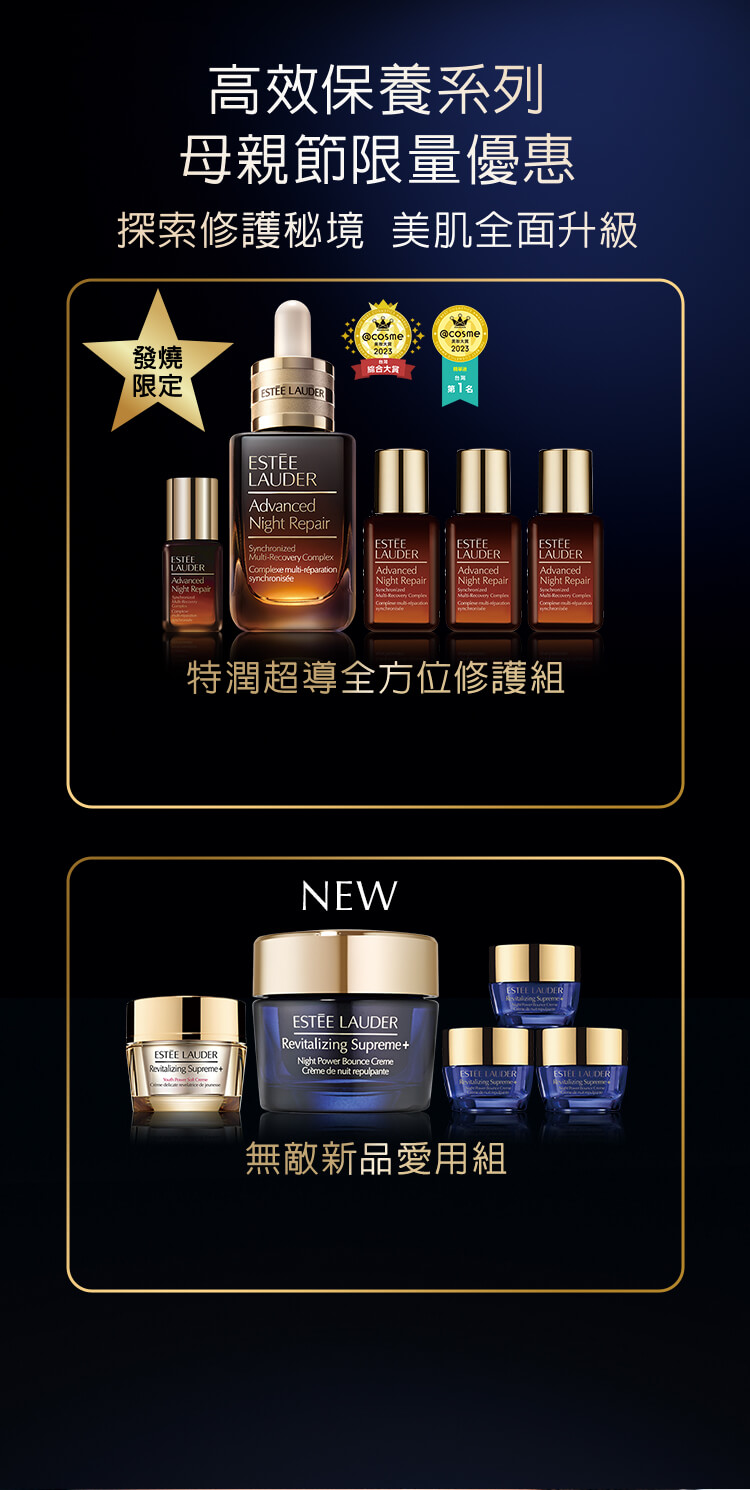
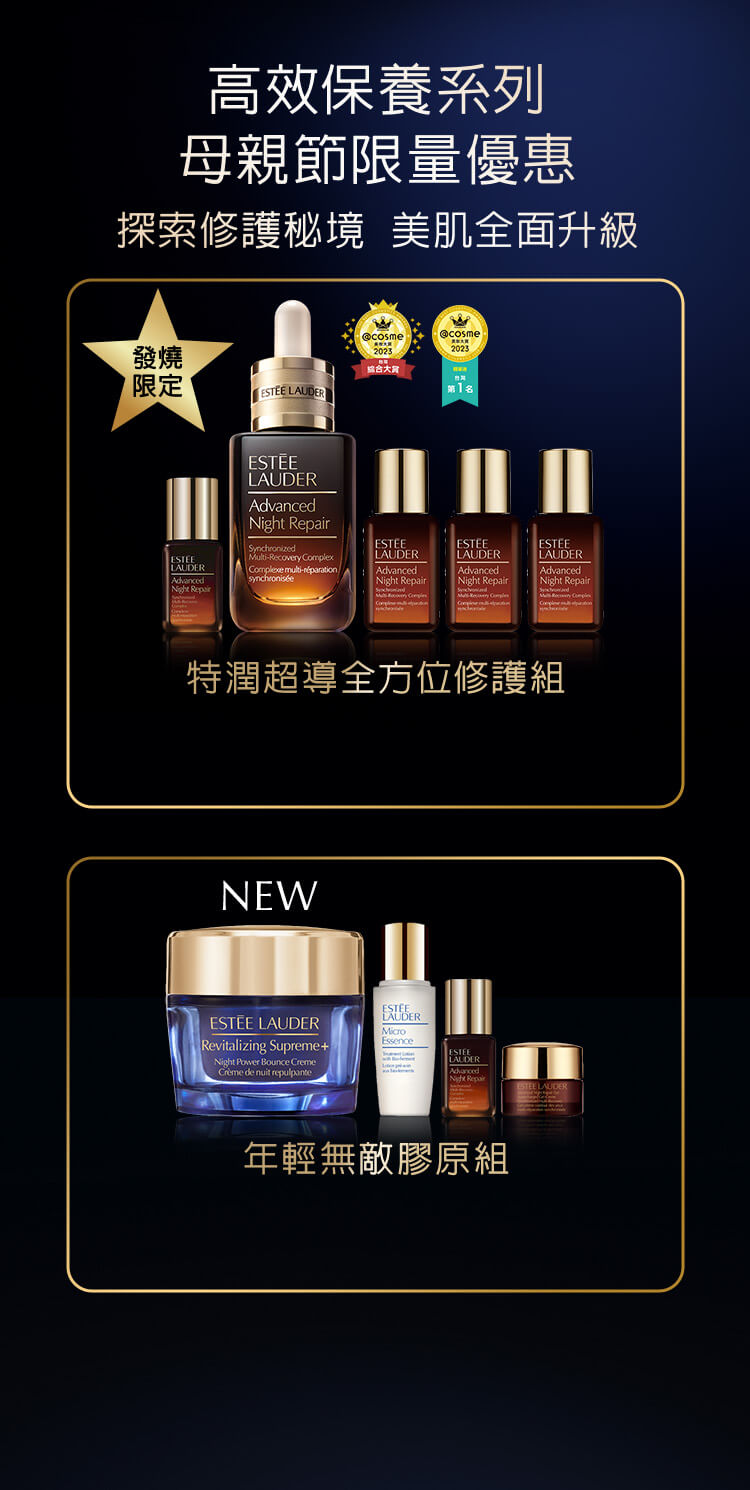
Update home page with new buttons and adjust button widths

Changed region(s): [[0.1533, 0.5866, 0.8587, 0.8027], [0.46, 0.1852, 0.552, 0.247], [0.5827, 0.2161, 0.644, 0.247]]

diff --git a/src/pages/home/index.tsx b/src/pages/home/index.tsx
@@ -516,18 +516,34 @@ const Home = memo(() => {
                 </div>
                 <div className='b0'>
                   <a
+                    href='https://line.esteelauder.com.tw/OnlineShop/preorder?utm_medium=referral&utm_source=online&utm_campaign=product_engagement&utm_content=brand-supreme-mpp_2403&utm_term=brand'
+                    target='_blank'
+                  >
+                    <button>線上點線下取</button>
+                  </a>
+                </div>
+                <div className='c0'>
+                  <a
                     href='https://www.esteelauder.com.tw/product/13777/128888/promotions/setsgifts/advanced-night-repair?utm_medium=referral&utm_source=online&utm_campaign=product_engagement&utm_content=brand-supreme-mpp_2403&utm_term=brand'
                     target='_blank'
                   >
-                    <button>立即購買</button>
+                    <button>官網直購</button>
                   </a>
                 </div>
                 <div className='b1'>
                   <a
+                    href='https://line.esteelauder.com.tw/OnlineShop/preorder?utm_medium=referral&utm_source=online&utm_campaign=product_engagement&utm_content=brand-supreme-mpp_2403&utm_term=brand'
+                    target='_blank'
+                  >
+                    <button>線上點線下取</button>
+                  </a>
+                </div>
+                <div className='c1'>
+                  <a
                     href='https://www.esteelauder.com.tw/setsgifts?utm_medium=referral&utm_source=online&utm_campaign=product_engagement&utm_content=brand-supreme-mpp_2403&utm_term=brand'
                     target='_blank'
                   >
-                    <button>立即購買</button>
+                    <button>官網直購</button>
                   </a>
                 </div>
                 <div className='f0'>母親節特惠組數量有限，售完為止。</div>

diff --git a/src/settings/section-7.less b/src/settings/section-7.less
@@ -95,11 +95,12 @@
     }
 
     .b0,
-    .b1 {
+    .b1,
+    .c0,
+    .c1 {
       @apply absolute;
 
       button {
-        width: 308px;
         height: 40px;
         background-color: #b5862b;
         color: #fff;
@@ -160,7 +161,27 @@
 
     .b0 {
       top: 82.2%;
-      left: 14.7%;
+      left: 10.7%;
+
+      button {
+        width: 228px;
+      }
+
+      @media only screen and (max-width: 1363px) {
+        & {
+          top: 51.8%;
+          left: 28.6%;
+        }
+      }
+    }
+
+    .c0 {
+      top: 82.2%;
+      left: 29.2%;
+
+      button {
+        width: 176px;
+      }
 
       @media only screen and (max-width: 1363px) {
         & {
@@ -172,7 +193,27 @@
 
     .b1 {
       top: 82.2%;
-      left: 62.2%;
+      left: 58.2%;
+
+      button {
+        width: 228px;
+      }
+
+      @media only screen and (max-width: 1363px) {
+        & {
+          top: 84.6%;
+          left: 28.6%;
+        }
+      }
+    }
+
+    .c1 {
+      top: 82.2%;
+      left: 76.7%;
+
+      button {
+        width: 176px;
+      }
 
       @media only screen and (max-width: 1363px) {
         & {
